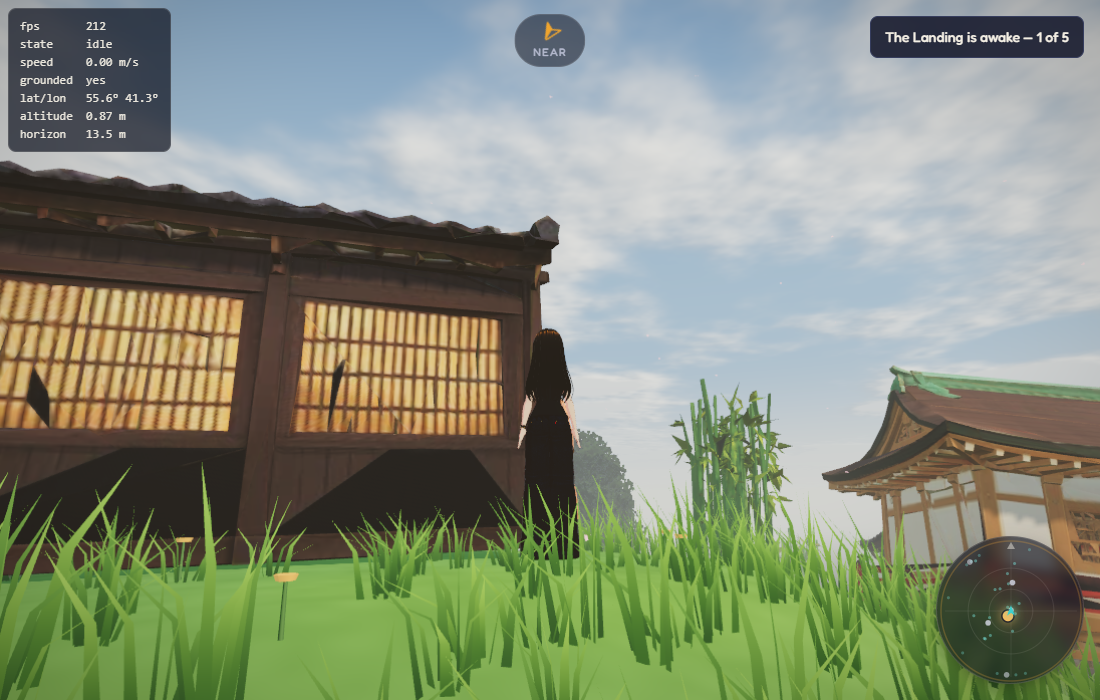
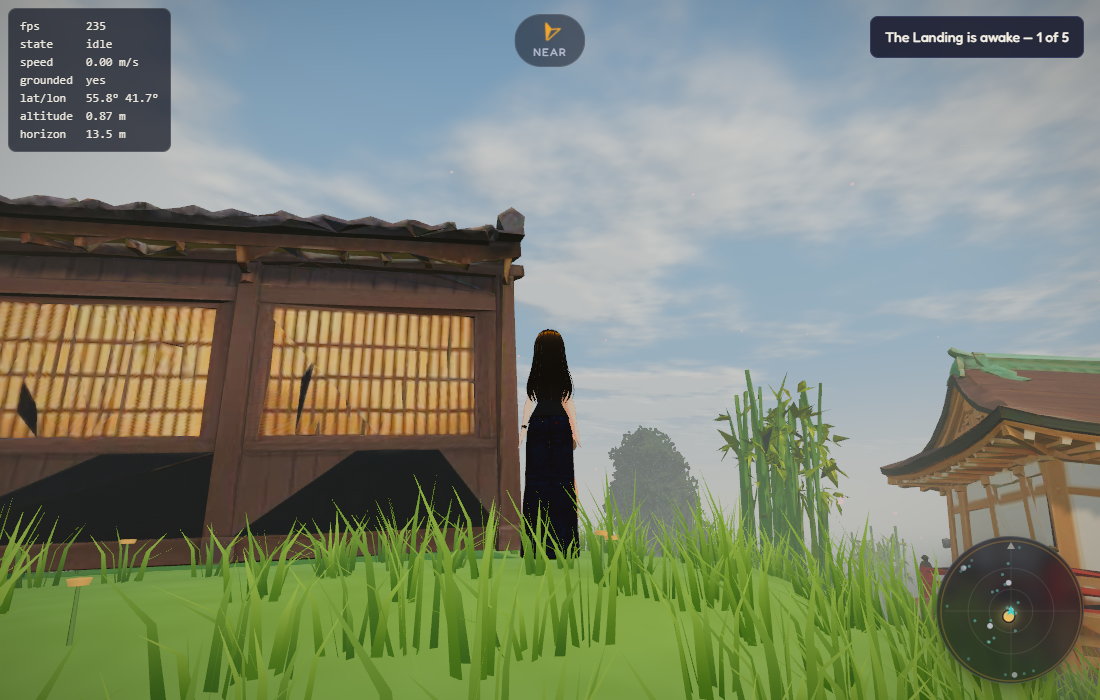
fix: she was a black cut-out against the valley
Side by side with the cel-shaded build, the player's navy denim skirt had
gone flat black. Measured on screen at a fixed spot, sun behind the camera:
19,19,21 now against 21,32,45 before.

Not one cause but three stacked:

- The VRM is MToon-shaded, and MToon does not read scene.environment.
  The rest of the world moved its ambient light into the sky's environment
  map; she simply lost most of hers.
- ACES's toe crushes values near black by about five times. Dark fabric
  that was legible under AgX went under.
- The grade's lift was 0.018 in *linear* light, which is 36/255 once
  encoded - a fifth of the way to mid-grey - and it flattened every dark
  colour in the frame to the same warm brown. That is what made it read
  as a silhouette rather than as dark cloth.

Brighter character lights and a stronger hemisphere were both tried and
barely moved the number; the tone curve and the lift were the levers. AgX
it is, with the saturation and contrast it gives away put back in the
grade (1.32 and 1.15), and a lift of 0.005 (~14/255). Awake she now reads
18,23,30 - denim again - and in the golden hour the same cloth goes warm.

tools/probe-character-light.mjs stands her at a fixed spot in each mood
and reports the colour of her skirt and back, so the next change to tone
mapping, grading or ambient light gets checked against her too.

diff --git a/src/engine/render/GradeEffect.ts b/src/engine/render/GradeEffect.ts
@@ -12,7 +12,7 @@ import { BlendFunction, Effect } from 'postprocessing';
  *   an afternoon rather than a render.
  * - **Gentle S-curve contrast**, applied in a perceptual (square-root) space
  *   so it bites on mid-tones rather than crushing shadows.
- * - **Saturation** a touch either side of neutral.
+ * - **Saturation** back up after AgX, which desaturates on its way through.
  *
  * Runs after tone mapping, on display-range values.
  */
@@ -50,7 +50,11 @@ export class GradeEffect extends Effect {
     super('GradeEffect', fragmentShader, {
       blendFunction: BlendFunction.NORMAL,
       uniforms: new Map<string, THREE.Uniform>([
-        ['lift', new THREE.Uniform(options.lift ?? new THREE.Color(0.018, 0.014, 0.01))],
+        // Linear values: 0.005 is a black of about 14/255 once encoded.
+        // This was 0.018 — 36/255, a fifth of the way to mid-grey — and it
+        // flattened every dark fabric in the game to one warm brown: the
+        // player's navy denim lost its blue and read as a black cut-out.
+        ['lift', new THREE.Uniform(options.lift ?? new THREE.Color(0.0052, 0.0044, 0.0034))],
         ['gain', new THREE.Uniform(options.gain ?? new THREE.Color(1.0, 0.985, 0.95))],
         ['contrast', new THREE.Uniform(options.contrast ?? 1.06)],
         ['saturation', new THREE.Uniform(options.saturation ?? 1.06)],

diff --git a/src/engine/render/PostFX.ts b/src/engine/render/PostFX.ts
@@ -69,9 +69,15 @@ export class PostFX {
     // three tone-maps as it writes into the composer's buffer, so bloom would
     // read values already compressed to display range and wash out.
     renderer.toneMapping = THREE.NoToneMapping;
-    const toneMapping = new ToneMappingEffect({ mode: ToneMappingMode.ACES_FILMIC });
+    // AgX, not ACES. ACES's toe crushes everything near black by about five
+    // times, and the player's VRM is in dark navy denim on an MToon material
+    // that cannot see the sky's environment light — under ACES she rendered
+    // as a black cut-out (measured: skirt 19,19,21 against 21,32,45 before).
+    // AgX keeps dark fabric legible; the grade puts back the saturation and
+    // contrast AgX gives away. tools/probe-character-light.mjs measures it.
+    const toneMapping = new ToneMappingEffect({ mode: ToneMappingMode.AGX });
 
-    const grade = new GradeEffect();
+    const grade = new GradeEffect({ contrast: 1.15, saturation: 1.32 });
     const vignette = new VignetteEffect({ offset: 0.28, darkness: 0.42 });
 
     // The RenderPass is retargeted per scene rather than rebuilt, since scenes

diff --git a/docs/24-cinematic-look.md b/docs/24-cinematic-look.md
@@ -16,7 +16,7 @@ the look, and what each piece is for.
 | Grass | ~200 green cones per district | ~190 000 instanced clumps, wind, parting round the player, backlit tips | `game/world/GrassField` |
 | Trees | Generated hulls (faceted red "rocks on sticks") | Procedural trunks + crowns of leaf cards with spherical normals, painted textures, wind | `game/world/Trees` |
 | Water | Translucent toon sphere | Glassy PBR surface, six travelling wave trains, mirror reflections | `PlanetTerrain` water + `game/world/WaterReflection` |
-| Post | Outline → bloom → AgX → vignette | MSAA → bloom → ACES → grade (lifted warm blacks) → vignette | `engine/render/PostFX`, `GradeEffect` |
+| Post | Outline → bloom → AgX → vignette | MSAA → bloom → AgX → grade (contrast, saturation, a slight warm lift) → vignette | `engine/render/PostFX`, `GradeEffect` |
 | Lamps, rocks | Ball on a pole; dodecahedron | Paper andon on a wooden post; mossy boulder | `entities/props`, `entities/districtProps` |
 
 ## Three moods, one object
@@ -57,6 +57,16 @@ against all three: a tweak that flatters one routinely ruins another.
 - **Software GL is detected and forced to the low tier.** The e2e suite runs
   on SwiftShader, which drew the grass field at a frame every few seconds and
   timed the smoke test out. So does any GPU-less machine a player might have.
+- **The player is the one material the sky does not light.** The VRM is
+  MToon-shaded, and MToon ignores `scene.environment`; with the world's
+  ambient moved into the environment map she lost most of hers. The first
+  cut then made it worse twice: ACES's toe crushes values near black about
+  fivefold, and the grade's lift was 0.018 *linear* — 36/255 encoded — which
+  flattened every dark fabric to one warm brown. Her navy denim read as a
+  black cut-out (skirt 19,19,21 against 21,32,45 in the cel build). Fixed
+  with AgX plus saturation and contrast in the grade, and a lift of 0.005.
+  `node tools/probe-character-light.mjs` measures her in all three moods —
+  run it after any change to tone mapping, grading or ambient light.
 - **Grass placement comes from the terrain mesh**, not `heightAt`: random
   points on the drawn triangles, weighted by a `grass` attribute painted
   alongside the colour — none on sand, rock, tracks or building footprints.

diff --git a/.claude/skills/lumenpost-look/SKILL.md b/.claude/skills/lumenpost-look/SKILL.md
@@ -26,6 +26,7 @@ Write shots to the scratchpad directory, not the repo (only `playthrough.png` is
 |---|---|
 | Any lighting / sky / atmosphere / material change | `node tools/shoot-moods.mjs <outDir> [dormant,awake,golden]` — 6 views × 3 moods, into and away from the sun, prints ms per frame. Judge against **all three moods**: a tweak that flatters one ruins another |
 | Water, reflections | `node tools/shoot-lagoon.mjs <outDir>` — Tidebreak lagoon through the sea torii, 3 moods |
+| Is the player still readable? (after tone mapping / grade / ambient changes) | `node tools/probe-character-light.mjs [port]` — skirt/back colour in 3 moods. The VRM is MToon and ignores the sky light; awake skirt should stay bluish (~18,23,30), never ~19,19,21 (black cut-out) |
 | How does the world look? (districts, menu) | `node tools/shoot-world.mjs <outDir>` — menu shot + fixed viewpoints, comparable between runs |
 | Does a new/changed .glb look right, right scale? | `node tools/shoot-model.mjs <name> <heightM> <out.png>` — 4 views + 1.65 m human post + tri/material/texture report |
 | Do buildings sit on the ground? | `node tools/probe-grounding.mjs` — worst gap / burial per footprint in metres. Last known good: worst wall gap 0.16 m on the Landing |

diff --git a/README.md b/README.md
@@ -57,7 +57,7 @@ is authored in.
   sun-glow scattering in every material; three lighting moods (overcast →
   afternoon → golden hour) blended by progress; ~190k instanced grass clumps
   with wind; procedural cherry, maple and cedar crowns; mirror-reflecting
-  water; MSAA, bloom, ACES and a film grade
+  water; MSAA, bloom, AgX and a film grade
 - Authored Japanese village (Meshy image-to-3D) and a VRM player character
 - 219 unit tests, two browser suites including a full scripted playthrough
 
